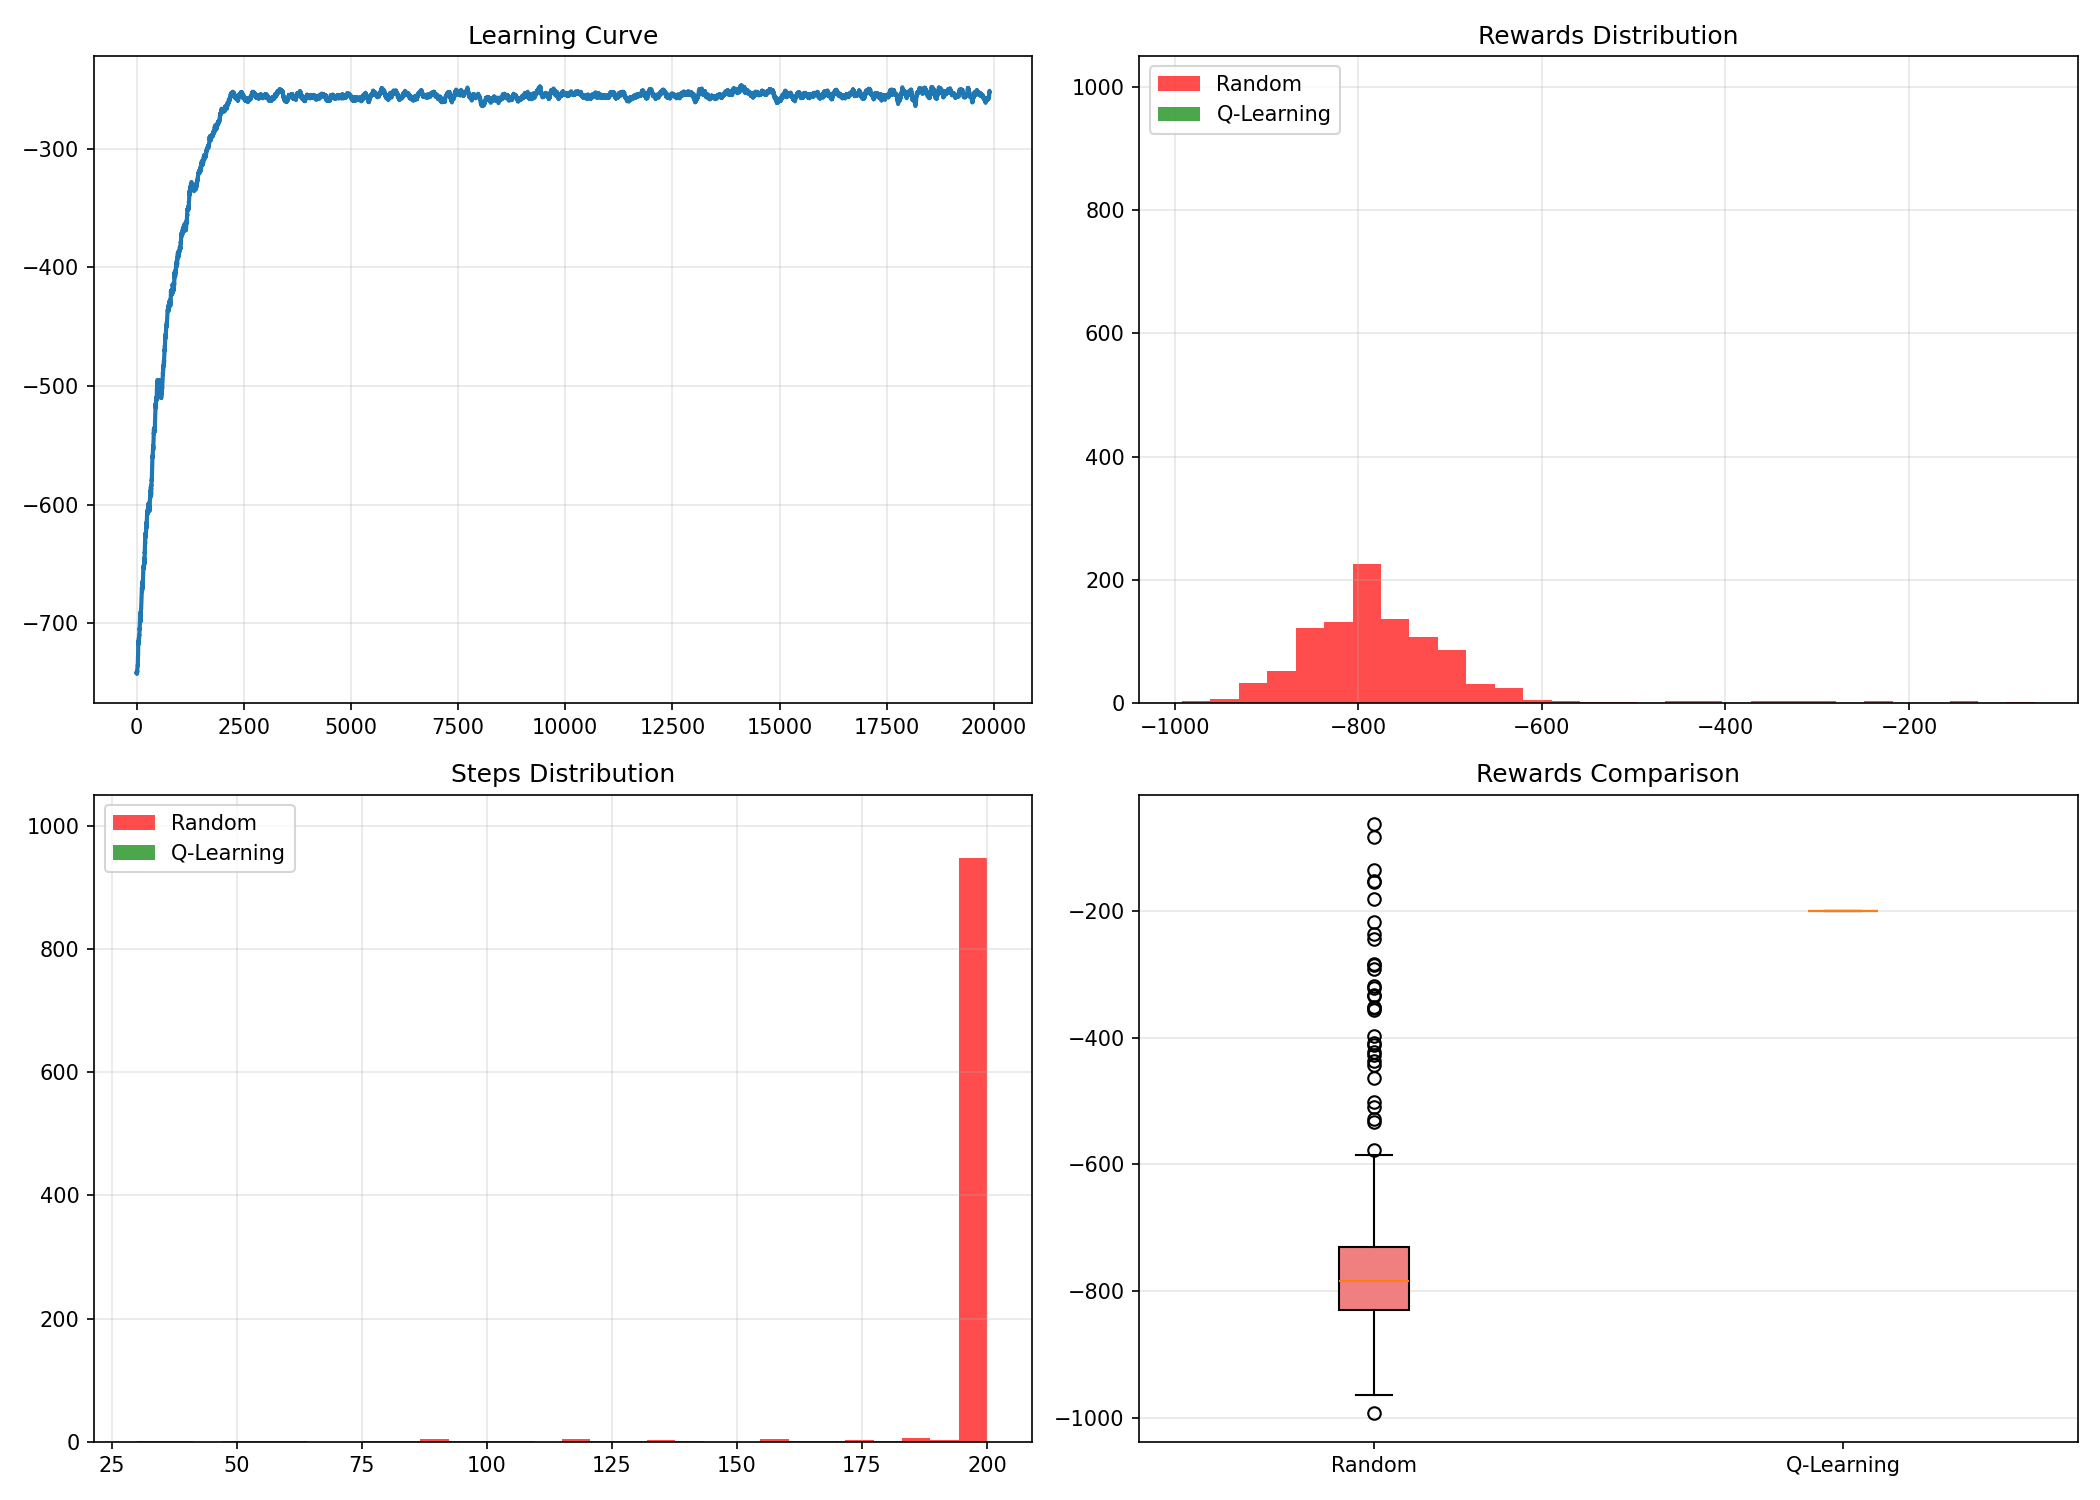
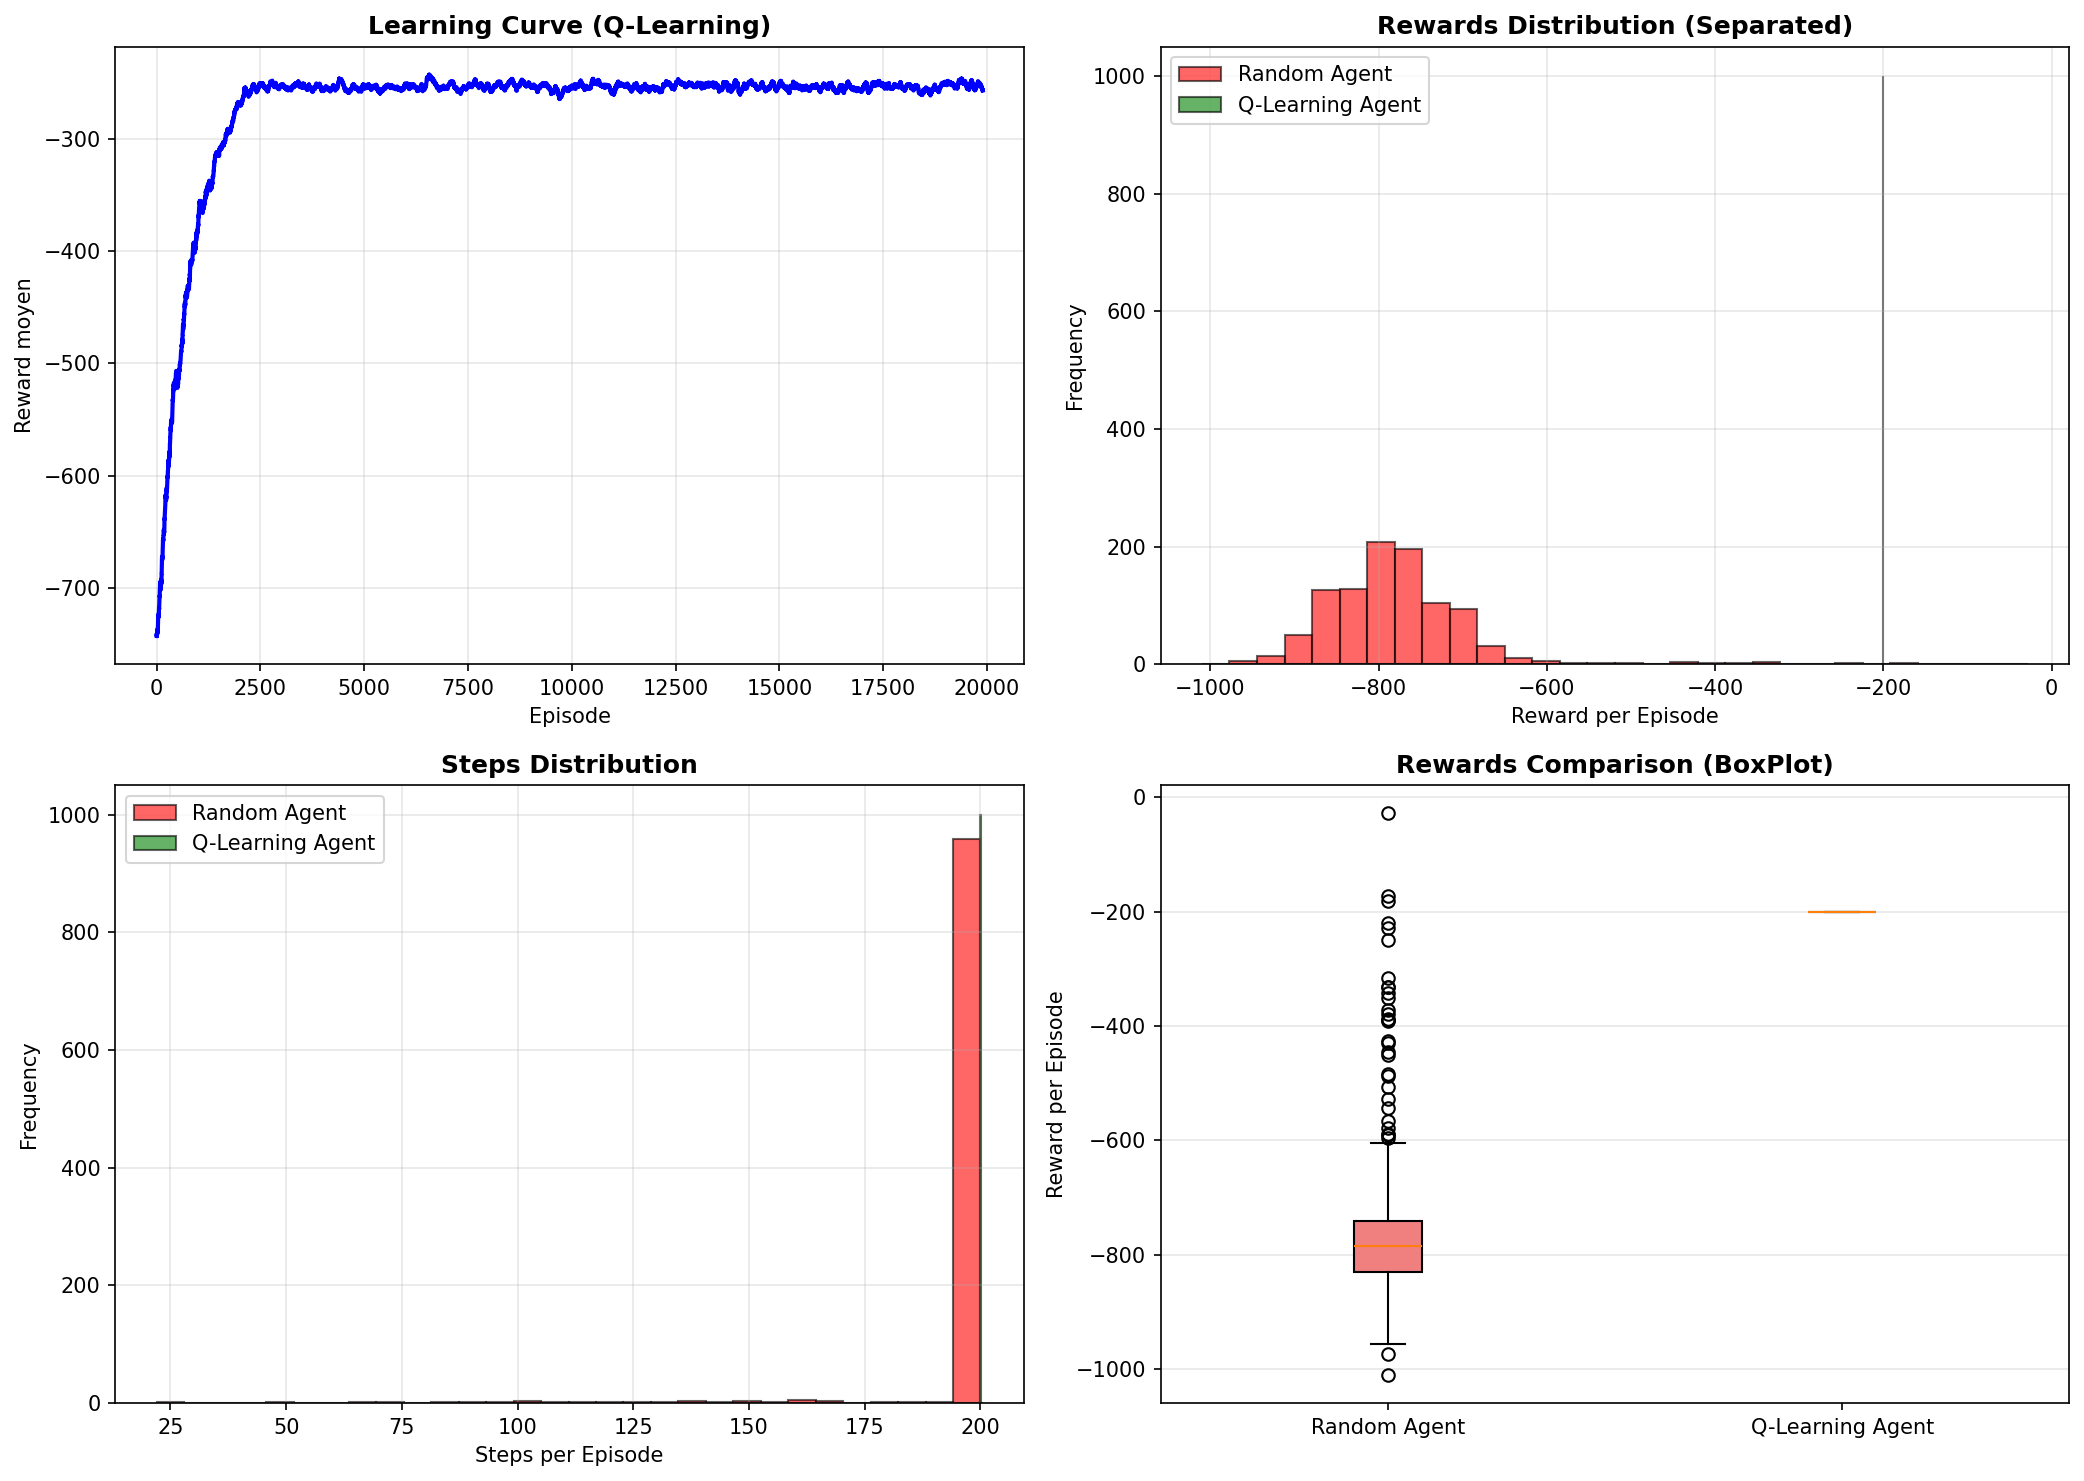
Improve visualization: better visibility of Q-Learning results

diff --git a/visualize_results.py b/visualize_results.py
@@ -5,7 +5,6 @@ import matplotlib.pyplot as plt
 
 print("=== ANALYZING TAXI-V3 AGENTS ===\n")
 
-# Configuration
 env = gym.make("Taxi-v3")
 num_episodes_eval = 1000
 
@@ -79,37 +78,45 @@ for ep in range(num_episodes_eval):
 
 print(f"✅ Evaluation done\n")
 
-# VISUALIZATIONS
+# VISUALIZATIONS - AMÉLIORÉES
 print("4⃣ Creating visualizations...")
 fig, axes = plt.subplots(2, 2, figsize=(14, 10))
 
 window = 100
 smoothed = np.convolve(training_rewards, np.ones(window)/window, mode="valid")
-axes[0, 0].plot(smoothed, linewidth=2)
-axes[0, 0].set_title("Learning Curve")
+axes[0, 0].plot(smoothed, linewidth=2, color='blue')
+axes[0, 0].set_title("Learning Curve (Q-Learning)", fontsize=12, fontweight='bold')
+axes[0, 0].set_xlabel("Episode")
+axes[0, 0].set_ylabel("Reward moyen")
 axes[0, 0].grid(True, alpha=0.3)
 
-axes[0, 1].hist(random_rewards, bins=30, alpha=0.7, label='Random', color='red')
-axes[0, 1].hist(q_rewards, bins=30, alpha=0.7, label='Q-Learning', color='green')
-axes[0, 1].set_title("Rewards Distribution")
+# AMÉLIORATION: Histogrammes séparés pour voir les deux
+axes[0, 1].hist(random_rewards, bins=30, alpha=0.6, label='Random Agent', color='red', edgecolor='black')
+axes[0, 1].hist(q_rewards, bins=30, alpha=0.6, label='Q-Learning Agent', color='green', edgecolor='black')
+axes[0, 1].set_title("Rewards Distribution (Separated)", fontsize=12, fontweight='bold')
+axes[0, 1].set_xlabel("Reward per Episode")
+axes[0, 1].set_ylabel("Frequency")
 axes[0, 1].legend()
 axes[0, 1].grid(True, alpha=0.3)
 
-axes[1, 0].hist(random_steps, bins=30, alpha=0.7, label='Random', color='red')
-axes[1, 0].hist(q_steps, bins=30, alpha=0.7, label='Q-Learning', color='green')
-axes[1, 0].set_title("Steps Distribution")
+axes[1, 0].hist(random_steps, bins=30, alpha=0.6, label='Random Agent', color='red', edgecolor='black')
+axes[1, 0].hist(q_steps, bins=30, alpha=0.6, label='Q-Learning Agent', color='green', edgecolor='black')
+axes[1, 0].set_title("Steps Distribution", fontsize=12, fontweight='bold')
+axes[1, 0].set_xlabel("Steps per Episode")
+axes[1, 0].set_ylabel("Frequency")
 axes[1, 0].legend()
 axes[1, 0].grid(True, alpha=0.3)
 
 data = [random_rewards, q_rewards]
-bp = axes[1, 1].boxplot(data, labels=['Random', 'Q-Learning'], patch_artist=True)
+bp = axes[1, 1].boxplot(data, labels=['Random Agent', 'Q-Learning Agent'], patch_artist=True, tick_labels=['Random', 'Q-Learning'])
 bp['boxes'][0].set_facecolor('lightcoral')
 bp['boxes'][1].set_facecolor('lightgreen')
-axes[1, 1].set_title("Rewards Comparison")
+axes[1, 1].set_title("Rewards Comparison (BoxPlot)", fontsize=12, fontweight='bold')
+axes[1, 1].set_ylabel("Reward per Episode")
 axes[1, 1].grid(True, alpha=0.3, axis='y')
 
 plt.tight_layout()
-plt.savefig('agent_comparison.png', dpi=150)
+plt.savefig('agent_comparison.png', dpi=150, bbox_inches='tight')
 print("✅ Saved: agent_comparison.png\n")
 plt.show()
 
